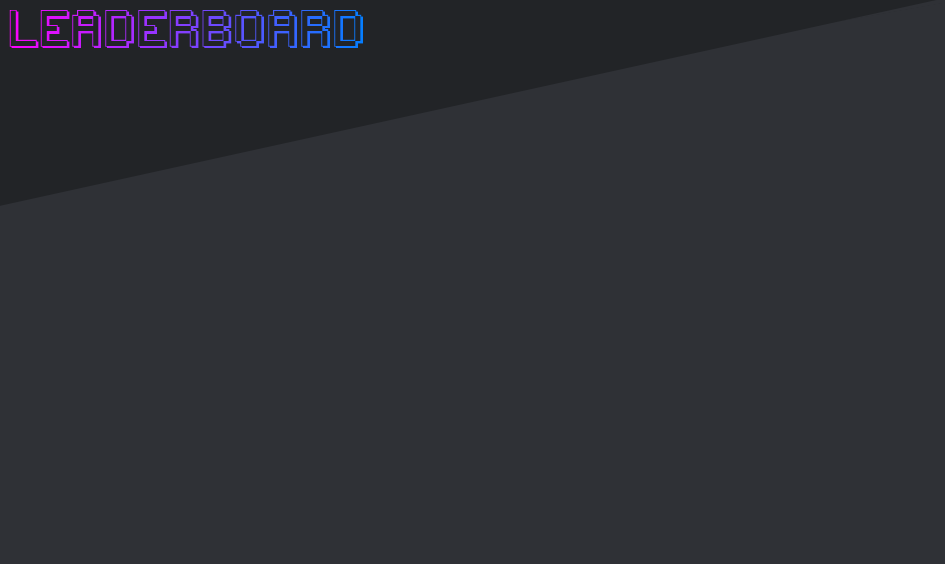
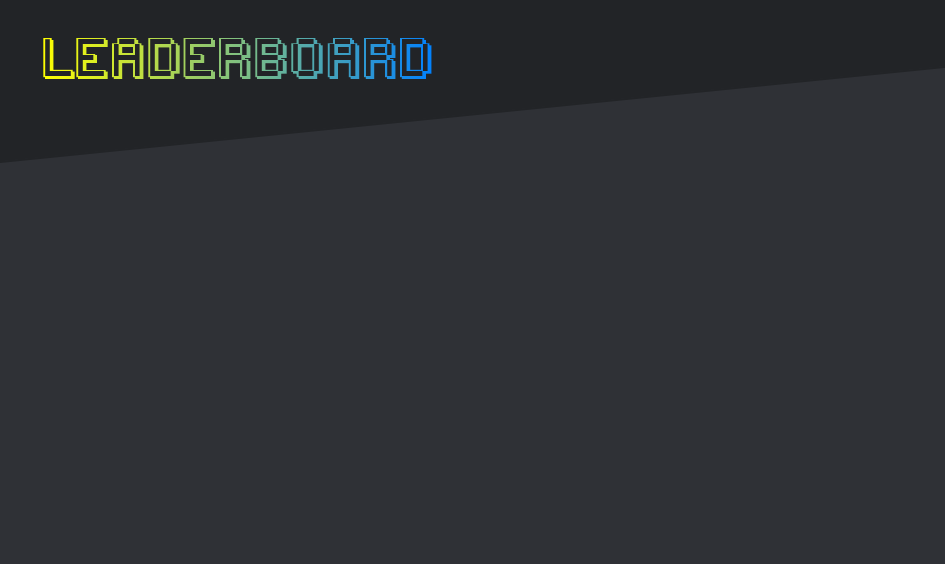
Improved design of leaderboard

Changed region(s): [[0.0, 0.0, 0.4603, 0.1507]]

diff --git a/lib/experience/gen_leaderboard.py b/lib/experience/gen_leaderboard.py
@@ -19,7 +19,7 @@ def _get_texts(stats: ExperienceStats) -> list[Text]:
         ),
         Text(
             text=str(shortened((level_size(stats.level - 1) if stats.level > 0 else 0) + stats.xp)),
-            color=(233, 11, 255),
+            color=(236, 246, 19),
             font=Font(path="./assets/font.ttf", size=27),
         ),
         Text(
@@ -29,7 +29,7 @@ def _get_texts(stats: ExperienceStats) -> list[Text]:
         ),
         Text(
             text=str(stats.level),
-            color=(233, 11, 255),
+            color=(236, 246, 19),
             font=Font(path="./assets/font.ttf", size=27),
         )
     ]
@@ -37,19 +37,11 @@ def _get_texts(stats: ExperienceStats) -> list[Text]:
 
 async def generate_leaderboard_card(stats: list[ExperienceStats]) -> list[File]:
     editor: Editor = Editor(Image.open("./assets/leaderboard.png"))
-
-    try:
-        guild_icon: bytes = await stats[0].member.guild.icon.read()
-    except AttributeError:
-        pass
-    else:
-        icon: Editor = Editor(Image.open(BytesIO(guild_icon)).resize((44, 44))).circle_image()
-        editor.paste(icon, (11, 60))
     editor.text(
         text=stats[0].member.guild.name,
-        position=(70, 70),
+        position=(42, 90),
         color=(255, 255, 255),
-        font=Font(path="./assets/font.ttf", size=30)
+        font=Font.poppins(variant="italic", size=25)
     )
 
     items_per_column: int = 7
